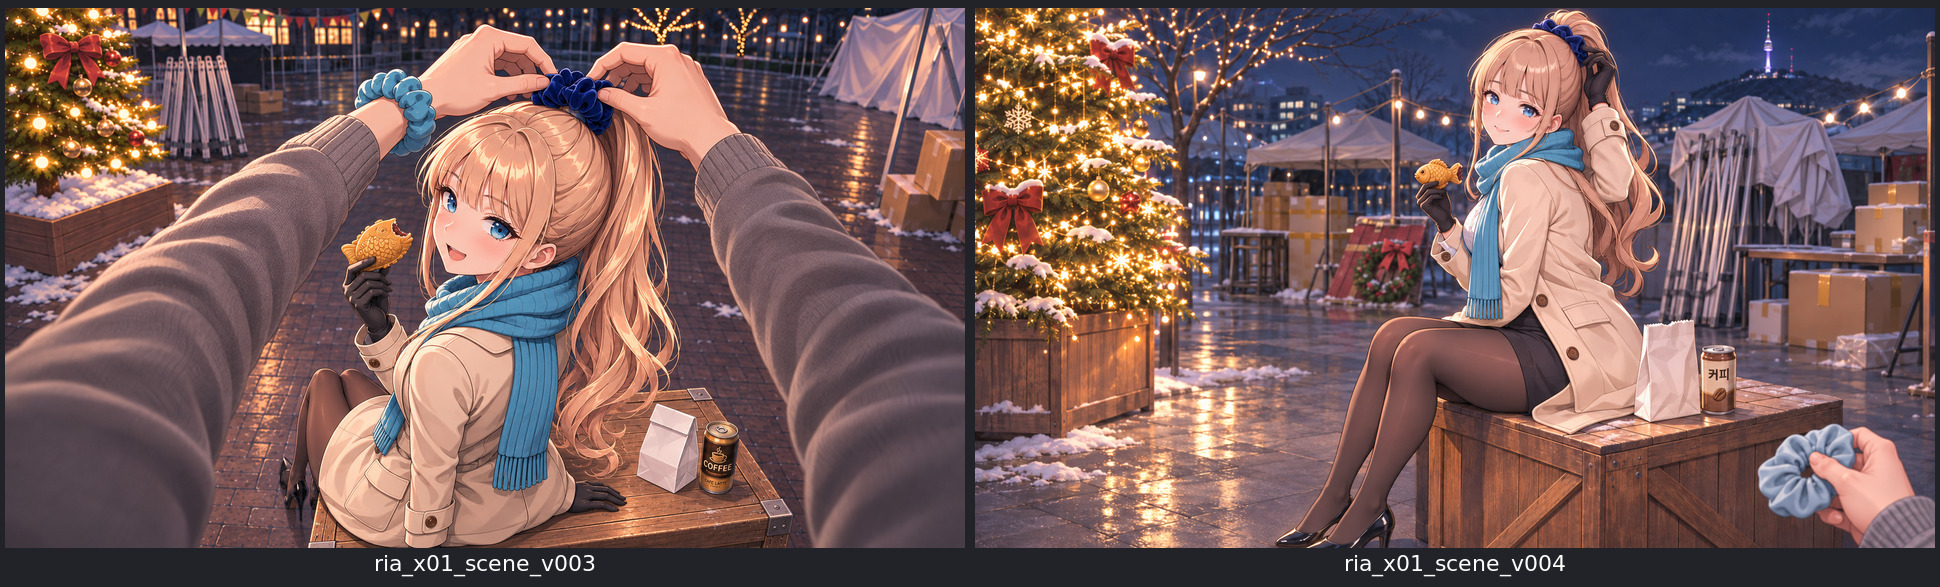
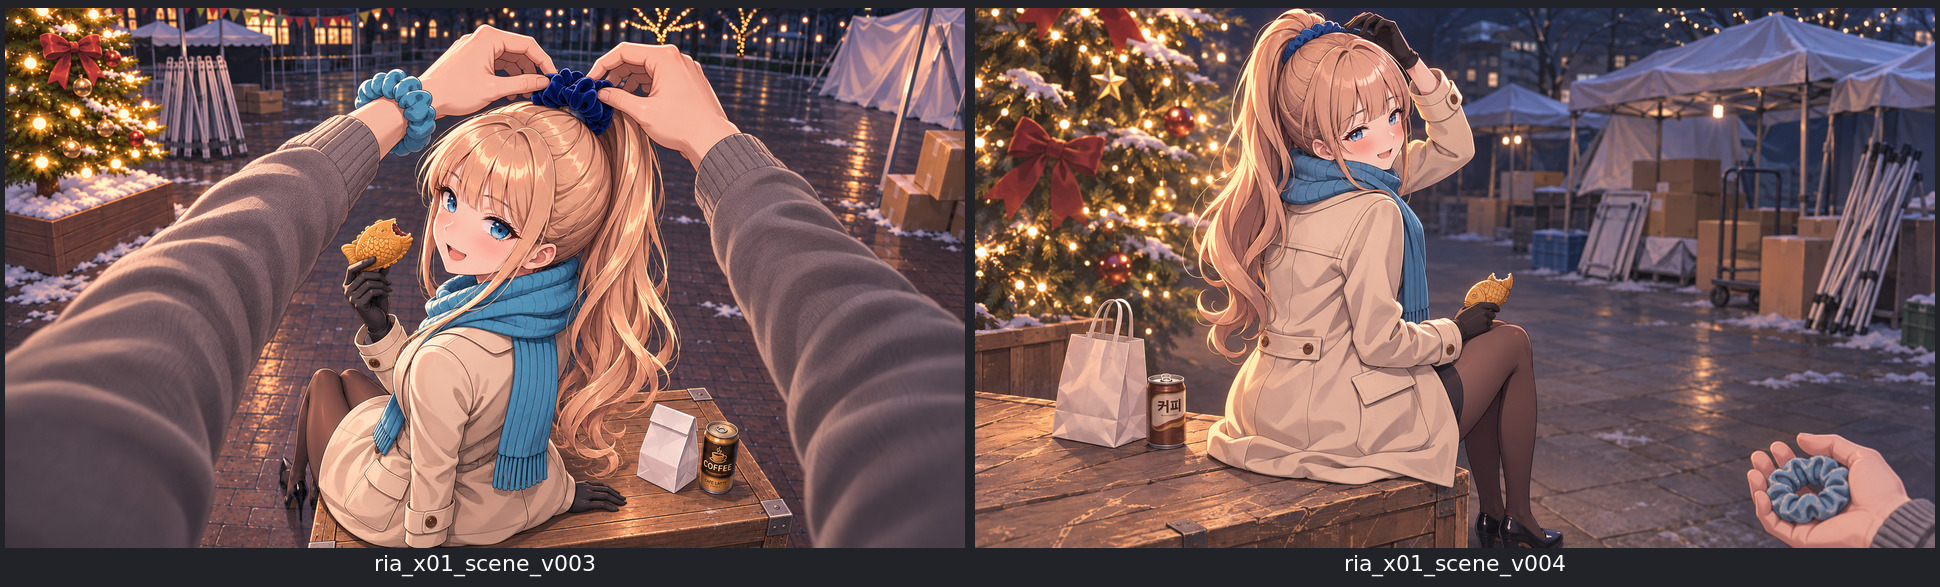
리아 X01을 어깨 너머로 돌아보는 구도로 다시 그리기

diff --git a/CharacterArt/candidates/cg-chatgpt-v001/INDEX.md b/CharacterArt/candidates/cg-chatgpt-v001/INDEX.md
@@ -152,10 +152,10 @@ v003 나뭇가지 왼쪽 하늘에 남아 있던 분홍 꽃잎 조각(약 700픽
 
 ## 리아 X01 v004 — 새 슈슈를 만지는 리아
 
-[4차 검수 기록 5절](../../../Docs/art-fix-prompts-v001.md)에 따라 도현의 두 팔이 화면 양끝에서 길게 뻗던 구도를 수정했다. v004에서는 리아가 직접 새 파란 벨벳 슈슈를 만지며 어깨 너머로 돌아본다. 도현이 원래 하늘색 슈슈를 쥔 손은 오른쪽 아래에 손목까지만 보인다.
+[4차 검수 기록 5절](../../../Docs/art-fix-prompts-v001.md)에 따라 도현의 두 팔이 화면 양끝에서 길게 뻗던 구도를 수정했다. v004에서는 리아의 등 뒤에서 장면을 본다. 리아는 상자에 옆으로 걸터앉아 붕어빵을 든 손을 무릎에 쉬고, 반대 손으로 새 파란 벨벳 슈슈를 살짝 만지며 어깨 너머로 돌아본다. 도현이 원래 하늘색 슈슈를 쥔 손은 오른쪽 아래에 손목까지만 보인다.
 
 [비교 사진 · 왼쪽 v003 / 오른쪽 v004](ria_x01_v003_v004_comparison.jpg)
 
 | 파일 | 화풍 기준 | 인물·겨울 의상 참고 | SHA-256 |
 |---|---|---|---|
-| [ria_x01_scene_v004.png](ria_x01_scene_v004.png) | [리아 오피스 원화](../heroine-masters-v001/final_2048x3072/ria_office_pose01_neutral_v001.png) | [리아 겨울 입상](../../../Source/game/images/characters/ria/ria_winter_pose01_neutral.png) | <code>7a816264ae7315b631bc4025692b8b4c2572969292a409f7a54595a97bc080b5</code> |
+| [ria_x01_scene_v004.png](ria_x01_scene_v004.png) | [리아 오피스 원화](../heroine-masters-v001/final_2048x3072/ria_office_pose01_neutral_v001.png) | [리아 겨울 입상](../../../Source/game/images/characters/ria/ria_winter_pose01_neutral.png) | <code>d38abe55466b82cc122afb76e0df14f8304ad6b3508a7d50b00449f00048467a</code> |
